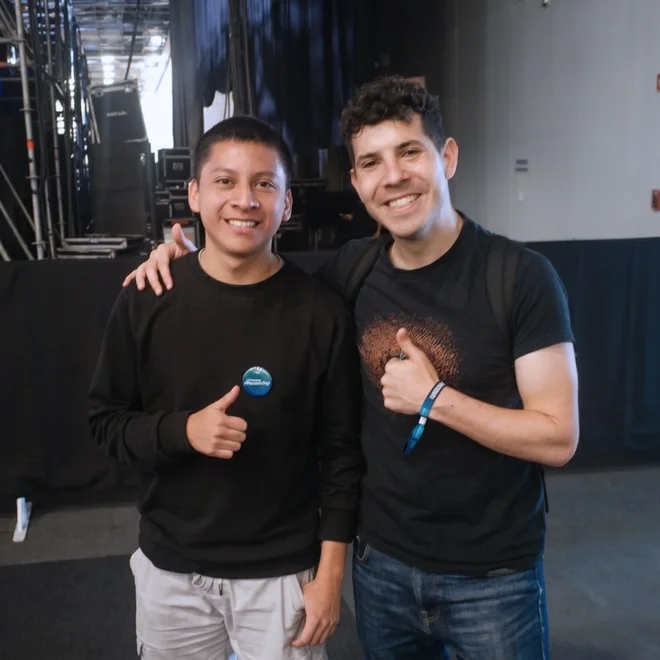
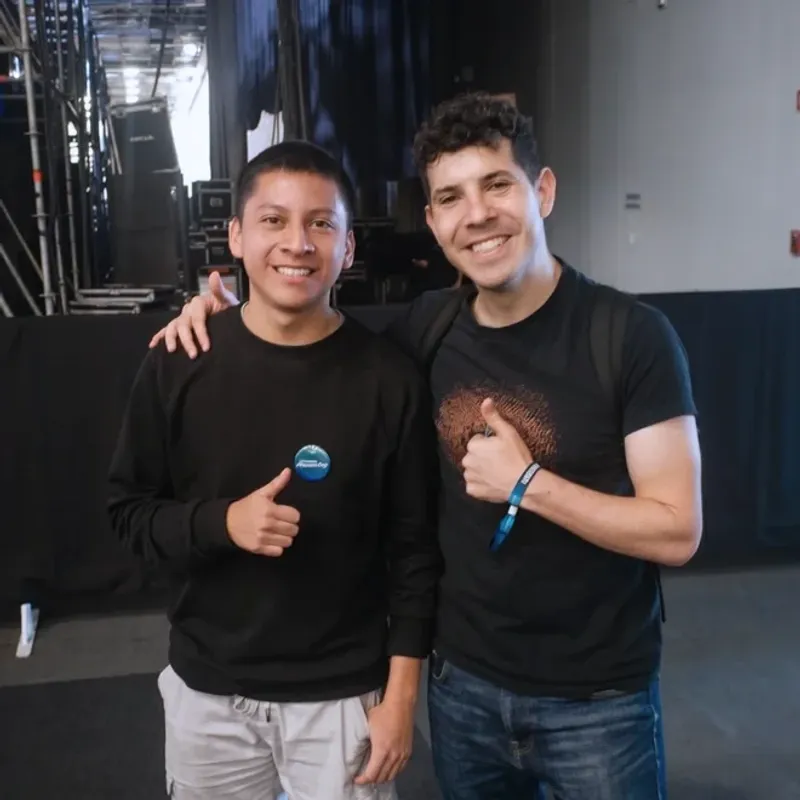
feat(blog): add relatedSlugs frontmatter and float images to midudev/mouredev post

diff --git a/lib/blog/index.ts b/lib/blog/index.ts
@@ -164,6 +164,7 @@ export const getAllPosts = cache(
             ogImageDark: translations.ogImageDark ?? frontmatter.ogImageDark,
             series: frontmatter.series,
             linkedin: frontmatter.linkedin,
+            relatedSlugs: frontmatter.relatedSlugs,
             resources: translations.resources,
          };
 
@@ -248,6 +249,7 @@ export const getPostBySlug = cache(
          ogImageDark: translations.ogImageDark ?? frontmatter.ogImageDark,
          series: frontmatter.series,
          linkedin: frontmatter.linkedin,
+         relatedSlugs: frontmatter.relatedSlugs,
          resources: translations.resources,
       };
 
@@ -293,9 +295,19 @@ export const getRelatedPosts = cache(
       if (!currentPost) return [];
 
       const allPosts = await getAllPosts(locale);
-      const currentTags = new Set(currentPost.frontmatter.tags);
 
-      const scored = allPosts
+      // 1. Manual overrides via relatedSlugs in frontmatter
+      if (currentPost.frontmatter.relatedSlugs?.length) {
+         const manual = currentPost.frontmatter.relatedSlugs
+            .filter((s) => s !== currentSlug)
+            .map((s) => allPosts.find((p) => p.slug === s))
+            .filter(Boolean) as BlogPostListItem[];
+         if (manual.length) return manual.slice(0, limit);
+      }
+
+      // 2. Tag-based scoring — no random fill
+      const currentTags = new Set(currentPost.frontmatter.tags);
+      return allPosts
          .filter((p) => p.slug !== currentSlug)
          .map((p) => ({
             post: p,
@@ -305,21 +317,6 @@ export const getRelatedPosts = cache(
          .sort((a, b) => b.score - a.score)
          .slice(0, limit)
          .map((s) => s.post);
-
-      // Only fill with unrelated posts if we have at least some tag matches
-      // If zero matches, show no related posts rather than random ones
-      if (scored.length > 0 && scored.length < limit) {
-         const remaining = allPosts
-            .filter(
-               (p) =>
-                  p.slug !== currentSlug &&
-                  !scored.some((s) => s.slug === p.slug),
-            )
-            .slice(0, limit - scored.length);
-         scored.push(...remaining);
-      }
-
-      return scored.slice(0, limit);
    },
 );
 

diff --git a/lib/blog/schema.ts b/lib/blog/schema.ts
@@ -41,6 +41,7 @@ export const BlogPostFrontmatterSchema = z.object({
    ogImageDark: z.string().url().or(z.string().startsWith("/")).optional(),
    series: z.string().optional(),
    linkedin: z.string().url().optional(),
+   relatedSlugs: z.array(z.string()).optional(),
    readingTimeMinutes: z.number().optional(),
 });
 
@@ -60,6 +61,7 @@ export interface LocalizedBlogPostFrontmatter {
    ogImageDark?: string;
    series?: string;
    linkedin?: string;
+   relatedSlugs?: string[];
    resources?: ResourceItem[];
 }
 
